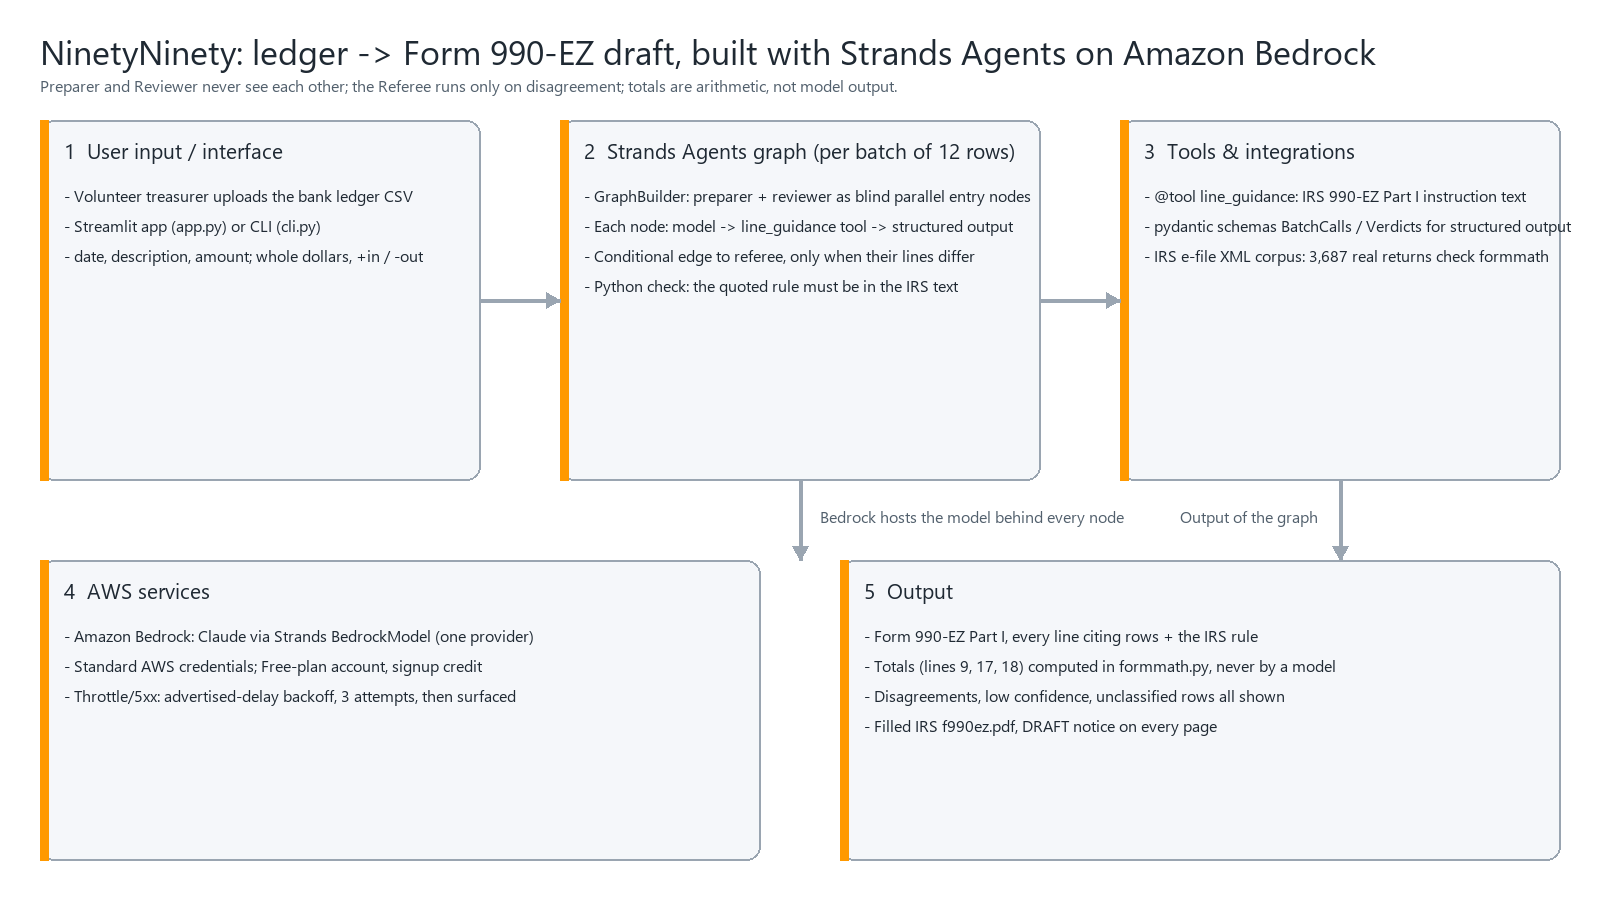
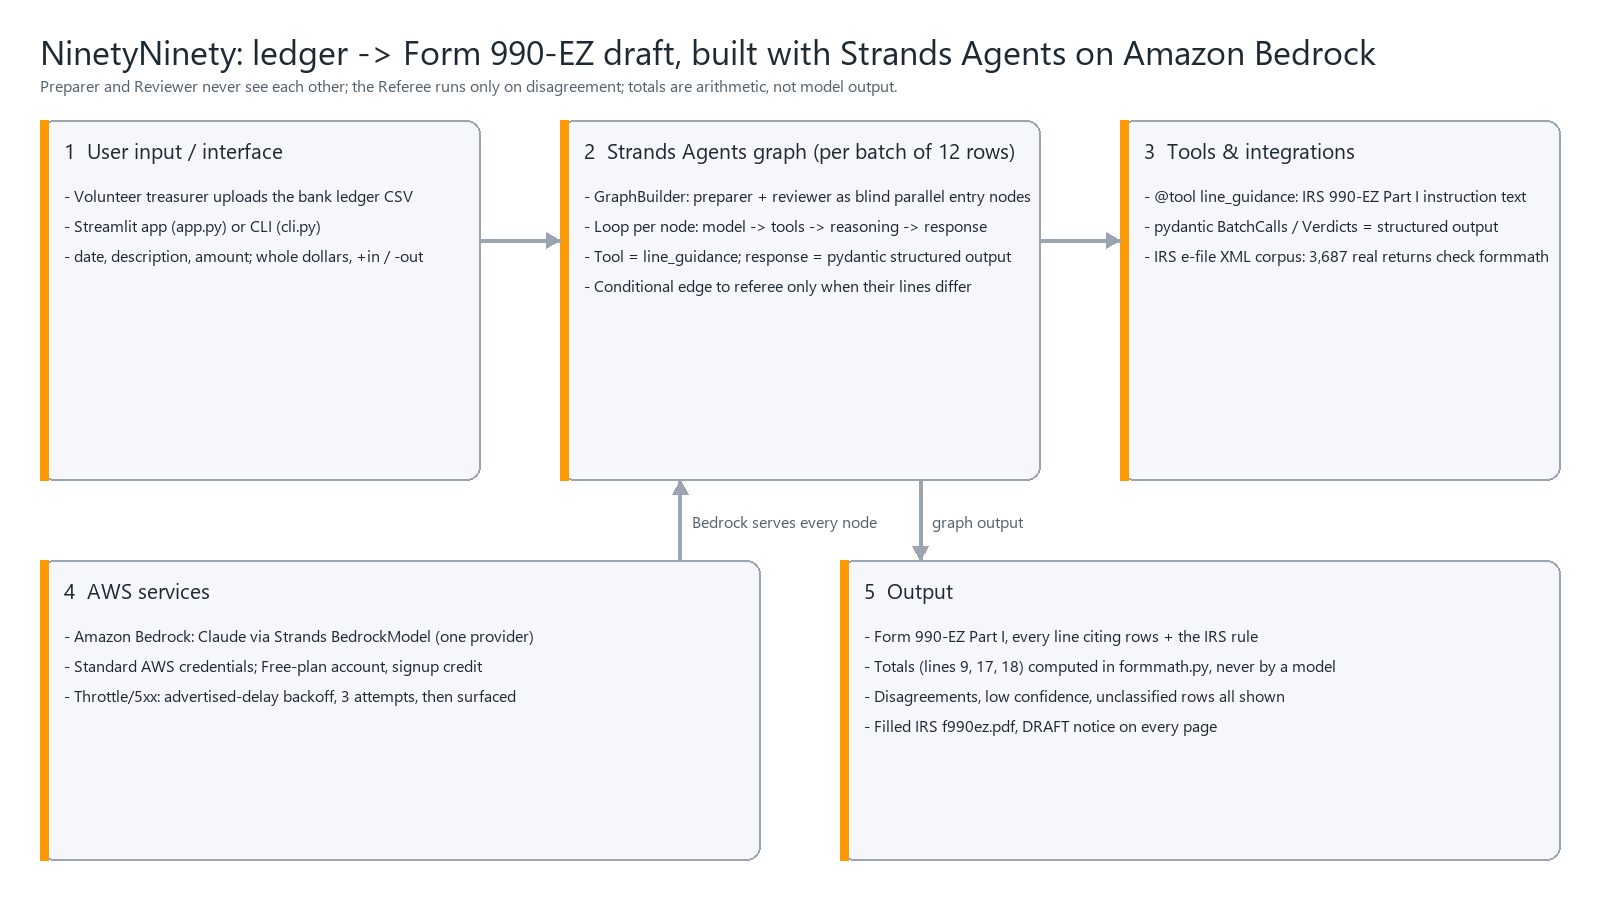
fix(diagram): restore the FAQ agentic loop wording, route the output arrow from the graph, data-driven arrows with a content test
Regression test tests/test_diagram.py checks the five FAQ boxes, the
model -> tools -> reasoning -> response loop, the arrow topology and the
batch size / attempt count against the code.

Claude-Session: https://claude.ai/code/session_01PZzGy1YGaW1ChUMnVE9ykr

diff --git a/scripts/diagram.py b/scripts/diagram.py
@@ -16,12 +16,12 @@ BOXES = [
       "date, description, amount; whole dollars, +in / -out"]),
     ("2  Strands Agents graph (per batch of 12 rows)",
      ["GraphBuilder: preparer + reviewer as blind parallel entry nodes",
-      "Each node: model -> line_guidance tool -> structured output",
-      "Conditional edge to referee, only when their lines differ",
-      "Python check: the quoted rule must be in the IRS text"]),
+      "Loop per node: model -> tools -> reasoning -> response",
+      "Tool = line_guidance; response = pydantic structured output",
+      "Conditional edge to referee only when their lines differ"]),
     ("3  Tools & integrations",
      ["@tool line_guidance: IRS 990-EZ Part I instruction text",
-      "pydantic schemas BatchCalls / Verdicts for structured output",
+      "pydantic BatchCalls / Verdicts = structured output",
       "IRS e-file XML corpus: 3,687 real returns check formmath"]),
     ("4  AWS services",
      ["Amazon Bedrock: Claude via Strands BedrockModel (one provider)",
@@ -33,6 +33,10 @@ BOXES = [
       "Disagreements, low confidence, unclassified rows all shown",
       "Filled IRS f990ez.pdf, DRAFT notice on every page"]),
 ]
+
+
+# (from box, to box, label). Output comes from the graph; Bedrock serves the graph.
+ARROWS = [(1, 2, ""), (2, 3, ""), (4, 2, "Bedrock serves every node"), (2, 5, "graph output")]
 
 
 def _font(size: int):
@@ -64,19 +68,27 @@ def render(dest: Path) -> Path:
             d.text((x0 + 24, y), "- " + line, fill=INK, font=small)
             y += 30
 
-    def arrow(a, b):
-        d.line([a, b], fill=LINE, width=4)
-        x, y = b
-        d.polygon([(x, y), (x - 14, y - 8), (x - 14, y + 8)], fill=LINE)
+    def head(x, y, dx, dy):
+        d.polygon([(x, y), (x - 14 * dx - 8 * dy, y - 14 * dy - 8 * dx),
+                   (x - 14 * dx + 8 * dy, y - 14 * dy + 8 * dx)], fill=LINE)
 
-    arrow((480, 300), (560, 300))
-    arrow((1040, 300), (1120, 300))
-    d.line([(800, 480), (800, 560)], fill=LINE, width=4)
-    d.polygon([(800, 560), (792, 546), (808, 546)], fill=LINE)
-    d.line([(1340, 480), (1340, 560)], fill=LINE, width=4)
-    d.polygon([(1340, 560), (1332, 546), (1348, 546)], fill=LINE)
-    d.text((820, 505), "Bedrock hosts the model behind every node", fill="#52606d", font=small)
-    d.text((1180, 505), "Output of the graph", fill="#52606d", font=small)
+    centres = {i + 1: ((x0 + x1) // 2, (y0 + y1) // 2, x0, y0, x1, y1)
+               for i, (x0, y0, x1, y1) in enumerate(cols)}
+    for a, b, label in ARROWS:
+        ax, ay, ax0, ay0, ax1, ay1 = centres[a]
+        bx, by, bx0, by0, bx1, by1 = centres[b]
+        if ay == by:  # side by side: right edge of a -> left edge of b
+            start, end, dx, dy = (ax1, ay - 60), (bx0, by - 60), 1, 0
+        elif ay < by:  # a above b: bottom of a -> top of b
+            x = ax1 - 120 if a == 2 and b == 5 else ax
+            start, end, dx, dy = (x, ay1), (x, by0), 0, 1
+        else:  # a below b: top of a -> bottom of b
+            x = bx0 + 120 if b == 2 else ax
+            start, end, dx, dy = (x, ay0), (x, by1), 0, -1
+        d.line([start, end], fill=LINE, width=4)
+        head(end[0], end[1], dx, dy)
+        if label:
+            d.text((start[0] + 12, (start[1] + end[1]) // 2 - 10), label, fill="#52606d", font=small)
 
     dest.parent.mkdir(parents=True, exist_ok=True)
     im.save(dest)

diff --git a/tests/test_diagram.py b/tests/test_diagram.py
@@ -1,0 +1,38 @@
+"""The architecture diagram is a required deliverable; the FAQ says what it
+must show. Check its content against that spec and against the code."""
+import sys
+from pathlib import Path
+
+sys.path.insert(0, str(Path(__file__).resolve().parents[1] / "scripts"))
+import diagram  # noqa: E402
+
+TEXT = {head: " ".join(lines).lower() for head, lines in diagram.BOXES}
+
+
+def test_five_boxes_in_the_faq_order():
+    heads = [h for h, _ in diagram.BOXES]
+    assert [h[0] for h in heads] == ["1", "2", "3", "4", "5"]
+    for want, head in zip(["user input", "strands agents", "tools", "aws services", "output"], heads):
+        assert want in head.lower()
+
+
+def test_agent_box_names_the_full_agentic_loop_the_faq_asks_for():
+    body = TEXT[[h for h in TEXT if h.startswith("2")][0]]
+    for word in ("model", "tool", "reasoning", "response"):
+        assert word in body, word
+
+
+def test_arrows_flow_input_to_graph_to_output_and_bedrock_serves_the_graph():
+    edges = {(a, b) for a, b, _ in diagram.ARROWS}
+    assert (1, 2) in edges and (2, 5) in edges
+    assert (3, 5) not in edges  # tools do not produce the output; the graph does
+    assert (4, 2) in edges or (2, 4) in edges
+
+
+def test_diagram_matches_the_code():
+    from ninetyninety.prepare import prepare_ledger
+    import inspect
+    assert "batch of 12" in [h for h in TEXT if h.startswith("2")][0].lower()
+    assert "batch_size: int = 12" in inspect.getsource(prepare_ledger)
+    assert "3 attempts" in TEXT[[h for h in TEXT if h.startswith("4")][0]]
+    assert "bedrock" in TEXT[[h for h in TEXT if h.startswith("4")][0]]
